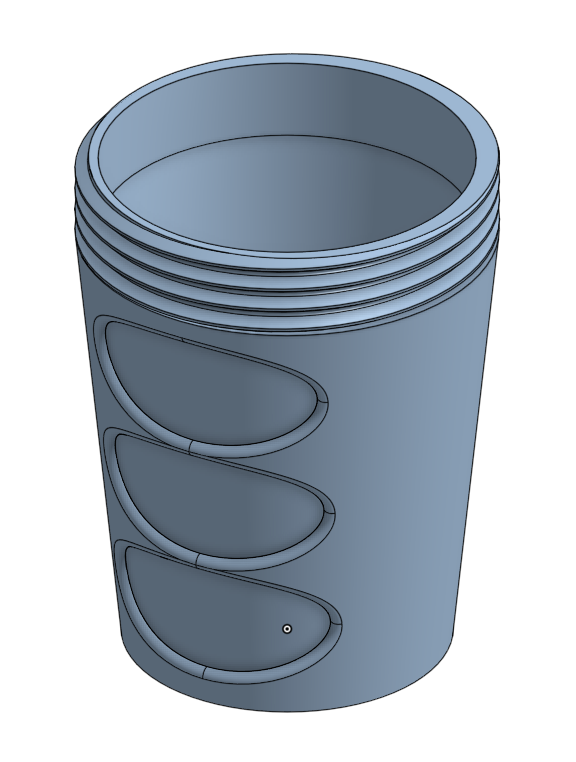
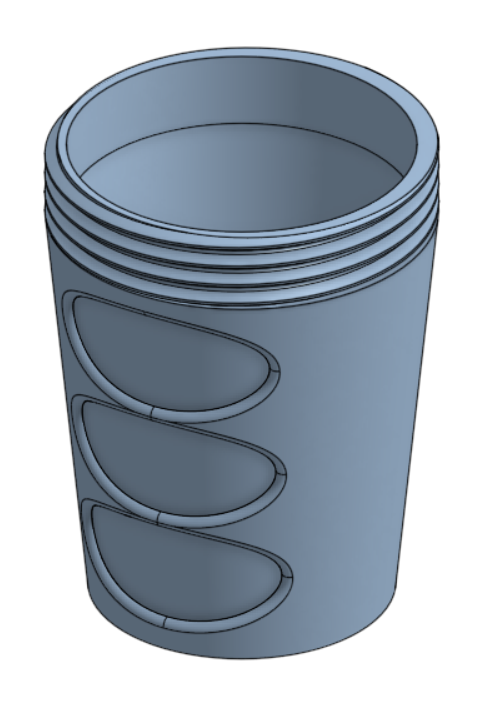
Improve urine specimen cup project info

diff --git a/docs/_projects/urine-specimen-cup/index.md b/docs/_projects/urine-specimen-cup/index.md
@@ -13,6 +13,7 @@ classes: wide
 <style>
   .pagination { display: none !important; }
 </style>
+
 <div align="center" style="margin-top: 1em; margin-bottom: 2.5em;">
     <img src="/assets/images/urine-specimen-cup.png" style="width: 50%; height: auto;">
 </div>
@@ -20,10 +21,10 @@ classes: wide
 Could a water bottle inspire a urine cup? Yuck — maybe it's better to first ask if it even _should_. But my line of thinking started with, "What are common items that may have been modified to make it easier for people with hand or finger impairments to use?" The ultimate challenge we aimed to address was the difficulty in holding and screwing or unscrewing the cup for individuals with hand and/or finger impairments. So, a natural parallel to the urine cup was a water bottle. I was confident that someone must have already modified the water bottle to make it easier for others to use. But who, and how? Could the modifications even be useful?
 
 ## Problem Statement
-Patients with finger or hand impairments need to hold and screw/unscrew the urine cup in order to independently be able to provide urine samples because greater autonomy reduces the potential embarrassment or guilt associated with relying on others. 
+> Patients with finger or hand impairments need to hold and screw/unscrew the urine cup in order to independently be able to provide urine samples because greater autonomy reduces the potential embarrassment or guilt associated with relying on others. 
 
 ## User Story
-A seventy-year old male with arthritis, Hubert, is requested to provide a urine sample for a urinalysis test, but he struggles to collect the sample without feeling immense pain in his hands and fingers. However, Hubert is determined to collect the sample on his own. Because of his arthritis, he struggles to grasp the cup. Eventually, he must ask the doctor for help and feels dissatisfied that something that should be so easy is so much more difficult for him.
+> A seventy-year old male with arthritis, Hubert, is requested to provide a urine sample for a urinalysis test, but he struggles to collect the sample without feeling immense pain in his hands and fingers. However, Hubert is determined to collect the sample on his own. Because of his arthritis, he struggles to grasp the cup. Eventually, he must ask the doctor for help and feels dissatisfied that something that should be so easy is so much more difficult for him.
 
 ## My Contributions
 - Designed the 3D CAD models for the cup and lid; 3D-printed multiple iterations of each part to best allow us to test our prototype. The physical parts helped us gain a firsthand understanding of how our proposed design changes could improve patient experiences in the future.

diff --git a/docs/_projects/urine-specimen-cup/prototyping.md b/docs/_projects/urine-specimen-cup/prototyping.md
@@ -7,6 +7,10 @@ sidebar:
 classes: wide
 ---
 
+<style>
+  .pagination { display: none !important; }
+</style>
+
 For my group's prototype of the urine specimen cup, I started with 3D modeling a very basic cup, with the only functionality being a lid that screws on and off. The screw-top lid was one of the most critical functionalities of our prototype because without it, we wouldn't be able to test if our design facilitated screwing and unscrewing the cup; instead, we would only be able to check if our modifications made the cup easier to grip and hold.
 
 <div align="center">
@@ -14,4 +18,4 @@ For my group's prototype of the urine specimen cup, I started with 3D modeling a
   <img src="/assets/images/urine-specimen-cup-initial-lid.png" width="45%" style="margin-left: 10px; margin-top: 1em; margin-bottom: 1em;">
 </div>
 
-The left-hand-side picture above shows the initial cup that we 3D-printed from the 3D model. The corresponding lid that we printed did not fit well on the cup; after only a couple of turns, it stopped going further. Something was getting stuck as we screwed it on, and it was very difficult to screw and unscrew. Upon inspection of the threads on the lid, I found that there were a lot of fragments of plastic stuck between the threads, and a lot of the threads were warped or misshapen. I realized this could be fixed by adding supports while 3D-printing. After a reprint with supports, the problem was fixed. As a result of this iteration, pictured on the right, I learned more about how to optimize the 3D-printing process. And this learning would not have been possible without failure, since, if the lid had worked first try, I would not have learned how to support 3D-printed parts.
+The left-hand-side picture above shows the initial cup that we 3D-printed from the 3D model. The corresponding lid that we printed did not fit well on the cup; after only a couple of turns, it stopped going further. Something was getting stuck as we screwed it on, and it was very difficult to screw and unscrew. Upon inspection of the threads on the lid, I found that there were a lot of fragments of plastic stuck between the threads, and a lot of the threads were warped or misshapen. I realized this could be fixed by adding supports while 3D-printing. After a reprint with supports, the problem was fixed. As a result of this iteration, pictured on the right, I learned more about how to optimize the 3D-printing process. And this learning would not have been possible without failure, since, if the lid had worked first try, I would not have practiced improving the parts.

diff --git a/docs/_projects/urine-specimen-cup/design-stage.md b/docs/_projects/urine-specimen-cup/design-stage.md
@@ -7,6 +7,10 @@ sidebar:
 classes: wide
 ---
 
+<style>
+  .pagination { display: none !important; }
+</style>
+
 These screenshots are from the brainstorming design sprint in which we came up with potential design ideas. They are the ideas we generated that apply those "water bottle" modifications to urine cups. Asking questions and exploring hunches led me to valid ideas, many of which ultimately got implemented into the original solution. Thus, this experience taught me that ideas that seem "bad" or "unappealing" almost never actually are; instead, they are usually worth exploring and often lead to valuable insights. Therefore, this project demonstrates growth in my willingness to explore my curiosity.
 
 <img src="/assets/images/urine-specimen-cup-brainstorm.png" style="width: 100%; height: auto;">

diff --git a/docs/_projects/urine-specimen-cup/final-design.md b/docs/_projects/urine-specimen-cup/final-design.md
@@ -7,6 +7,10 @@ sidebar:
 classes: wide
 ---
 
+<style>
+  .pagination { display: none !important; }
+</style>
+
 Below are CAD screenshots of our final design. A final picture can be found on the Project Overview page. This design includes ergonomic finger indentations for improved grip on the cup and a handle for improved grip on the lid.
 
 <div align="center">
